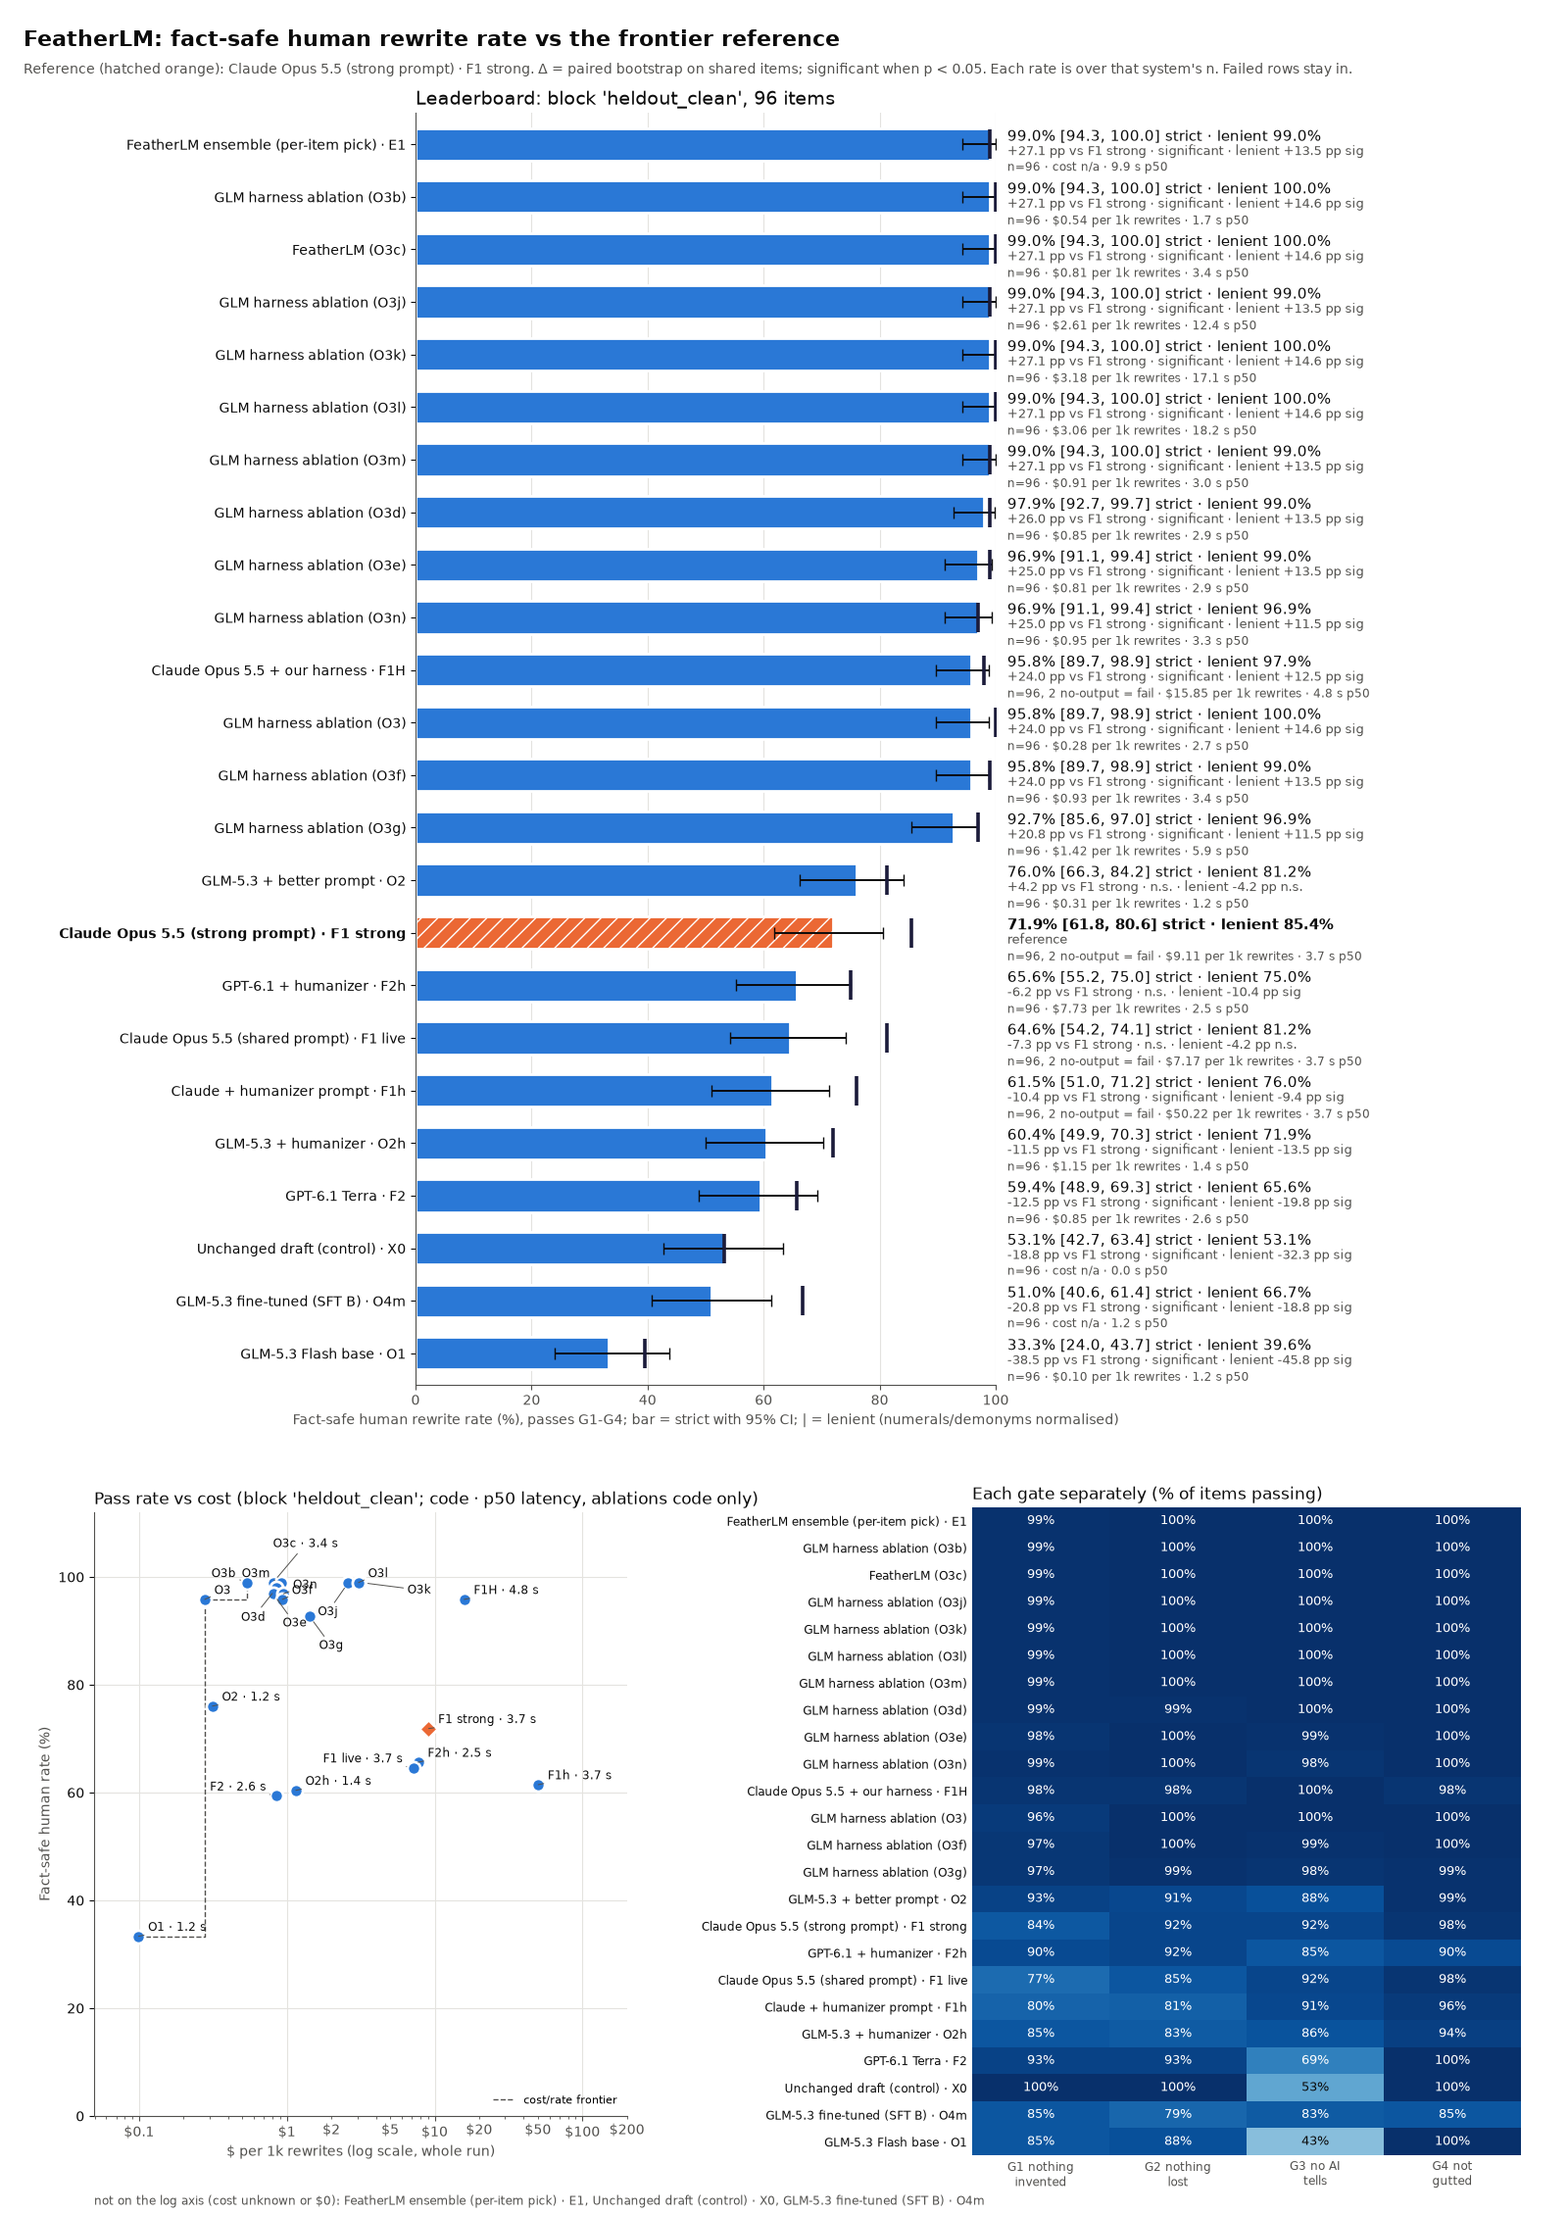
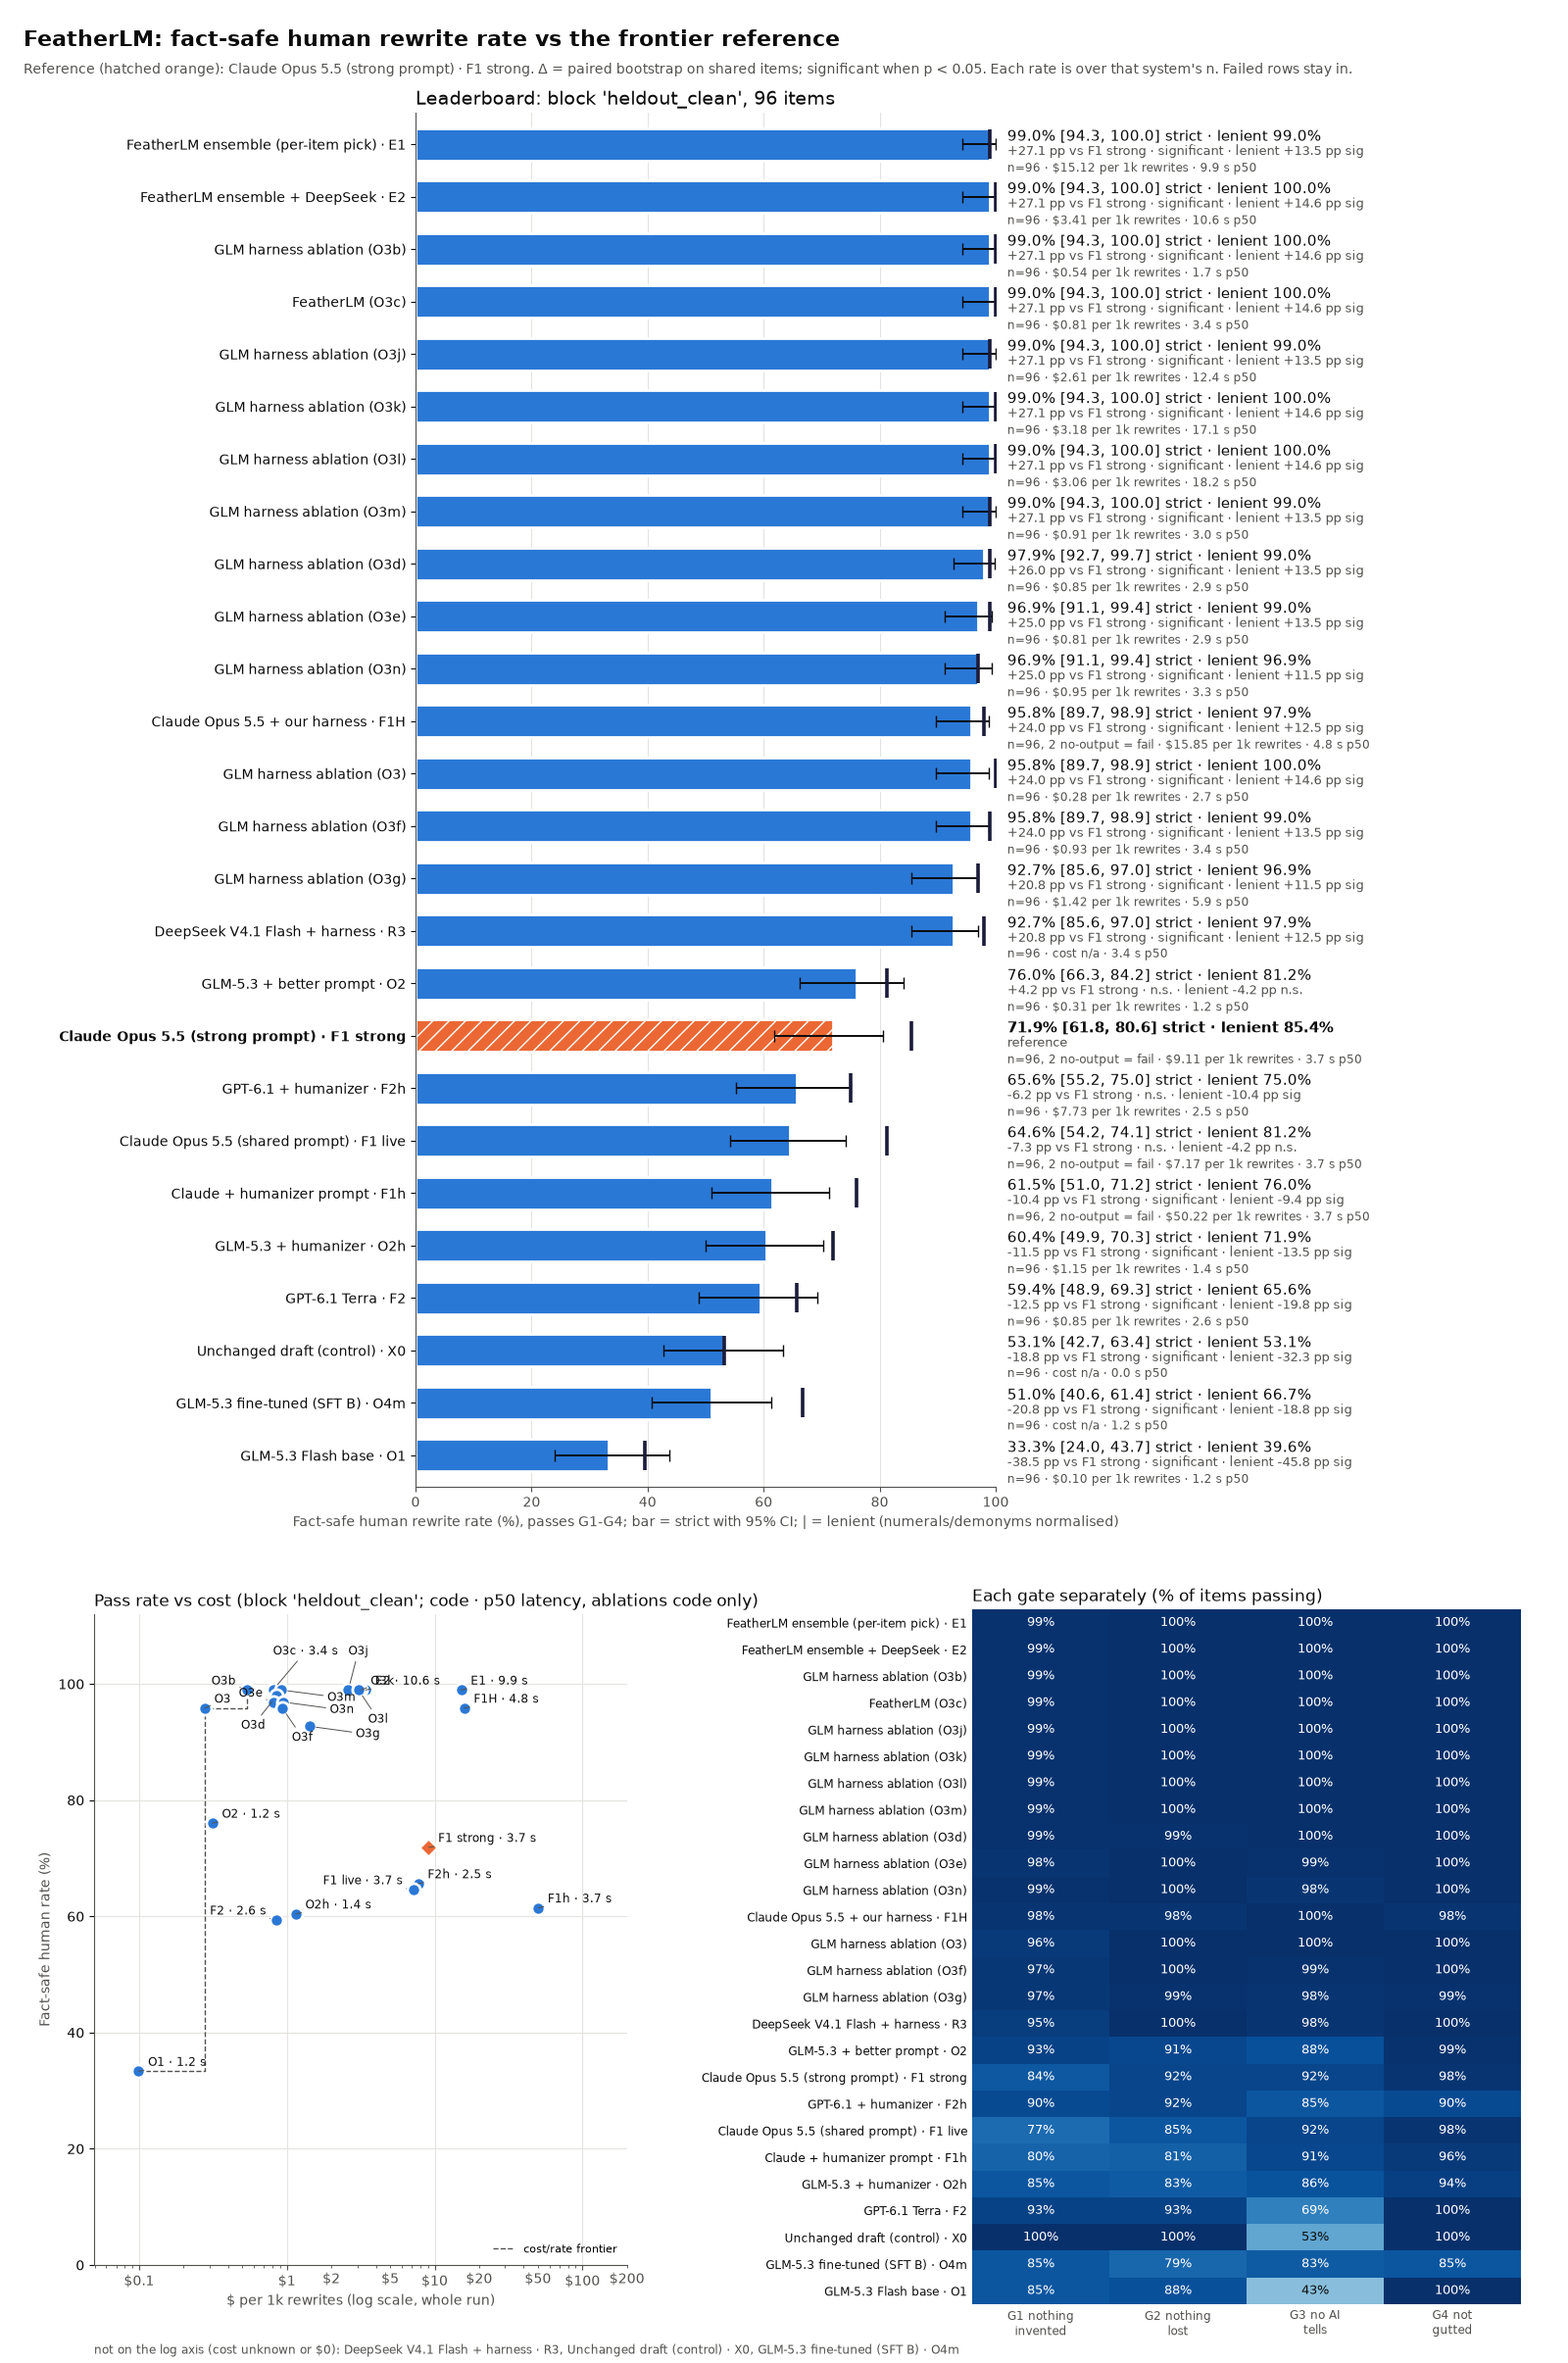
report: leaderboards re-rendered from results a986244 (adds E2 ensemble 99.6% at $3.41/1k and R3 DeepSeek 94.7%; E1 cost now $15.12/1k); display names

diff --git a/hackathon/eval/plot.py b/hackathon/eval/plot.py
@@ -200,6 +200,8 @@ DISPLAY = {
     "O2h_glm_humanizer": "GLM-5.3 + humanizer",
     "O4m_glm_sft_modern": "GLM-5.3 fine-tuned (SFT B)",
     "E1_ensemble": "FeatherLM ensemble (per-item pick)",
+    "E2_ensemble_glm_deepseek": "FeatherLM ensemble + DeepSeek",
+    "R3_deepseek_harness": "DeepSeek V4.1 Flash + harness",
     "X0_copy_draft (no rewrite: control)": "Unchanged draft (control)",
     "frontier-persona-preexisting": "Claude persona (pre-event)",
 }
